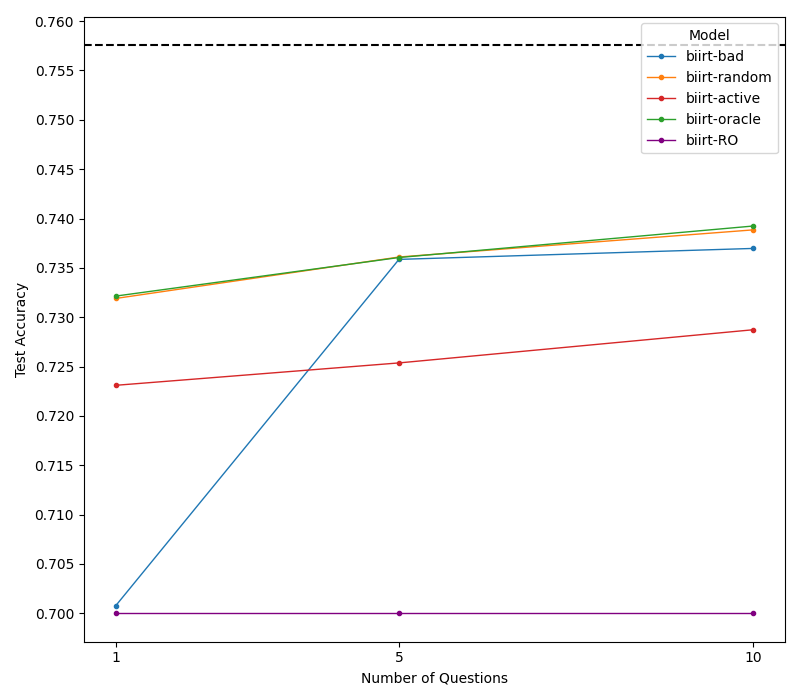
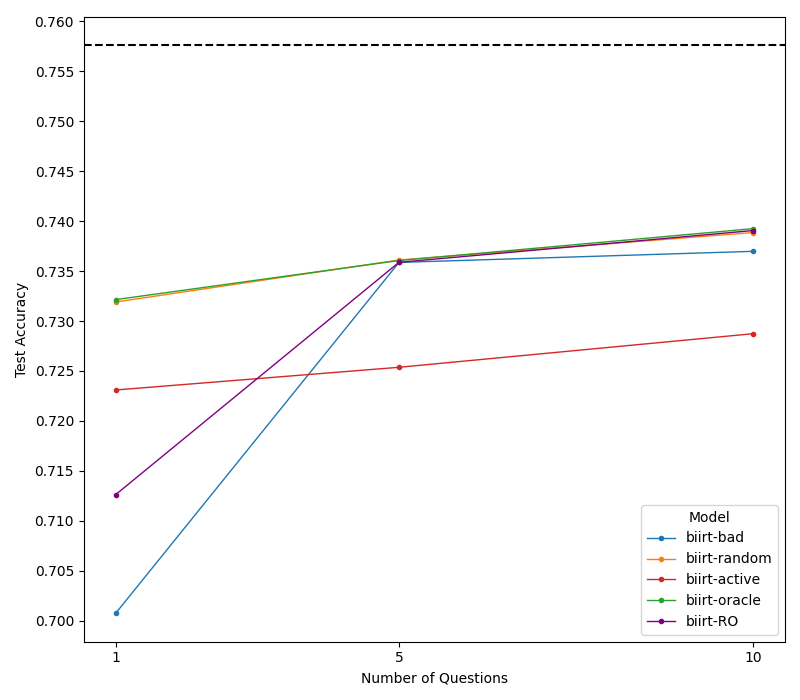
chart update

diff --git a/BOBCAT-main/model.py b/BOBCAT-main/model.py
@@ -74,6 +74,7 @@ def normalize_loss(output, labels, mask):
     loss = 10. * torch.sum(loss, dim =-1)/count
     return loss.sum()
 
+
 class MAMLModel(nn.Module):
     def __init__(self, n_question,question_dim =1,dropout=0.2, sampling='active', n_query=10):
         super().__init__()
@@ -84,12 +85,13 @@ class MAMLModel(nn.Module):
         self.question_dim = question_dim
         if self.question_dim == 1: # only in irt
             self.question_difficulty = nn.Parameter(torch.zeros(question_dim,n_question))        
+            # self.question_difficulty = nn.Parameter(torch.FloatTensor(1, n_question).uniform_(-2, 2))
         if self.question_dim>1:
             self.layers = nn.Sequential(
                 nn.Linear(self.question_dim, 256), nn.ReLU(
                 ), nn.Dropout(dropout))
             self.output_layer = nn.Linear(256, self.n_question)
-        
+    
     def reset(self, batch):
         input_labels, _, input_mask = get_inputs(batch)
         obs_state = ((input_labels-0.5)*2.)  # B, 948
@@ -107,11 +109,14 @@ class MAMLModel(nn.Module):
         return state
 
     def pick_sample(self,sampling, config):
+
+
         if sampling == 'random':
             train_mask = pick_random_sample(
                 config['available_mask'], self.n_query, self.n_question)
             config['train_mask'] = train_mask
             return train_mask
+            
 
         elif sampling == 'active':
             student_embed = config['meta_param']

diff --git a/BOBCAT-main/train.py b/BOBCAT-main/train.py
@@ -264,8 +264,11 @@ def run_random(batch, config):
     # Random pick once
 
     if sampling == 'random':
+        # config['diffs'] = batch['diffs'].to(device)
         # LOG CODE
         if PRINT_QUESTION_SELECTION and config['mode'] == 'train':
+            config['diffs'] = batch['diffs'].to(device)
+
             # Get current train_mask before selection
             prev_mask = config['train_mask'].clone()
             model.pick_sample('random', config)
@@ -298,8 +301,8 @@ def run_random(batch, config):
             # Get current train_mask before selection
             prev_mask = config['train_mask'].clone()
             # PICK SAMPLE HERE -> pick_oracle_sample
-            # model.pick_sample('oracle', config)
-            model.pick_sample('random', config)
+            model.pick_sample('oracle', config)
+            # model.pick_sample('random', config)
             # Find newly selected questions
             curr_mask = config['train_mask']
             diffs = torch.abs(config['diffs']) 
